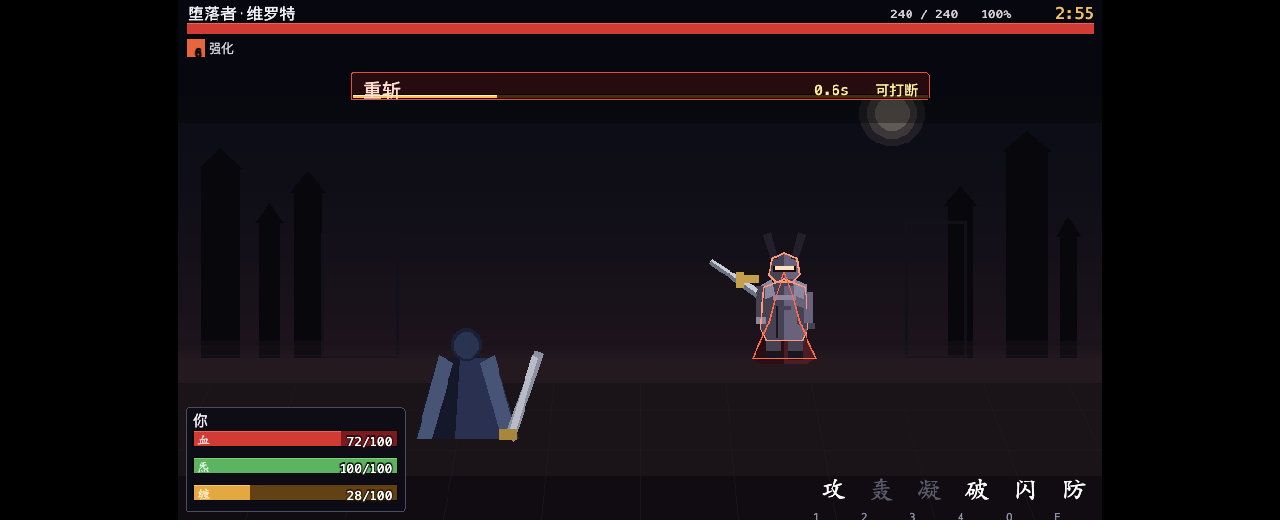
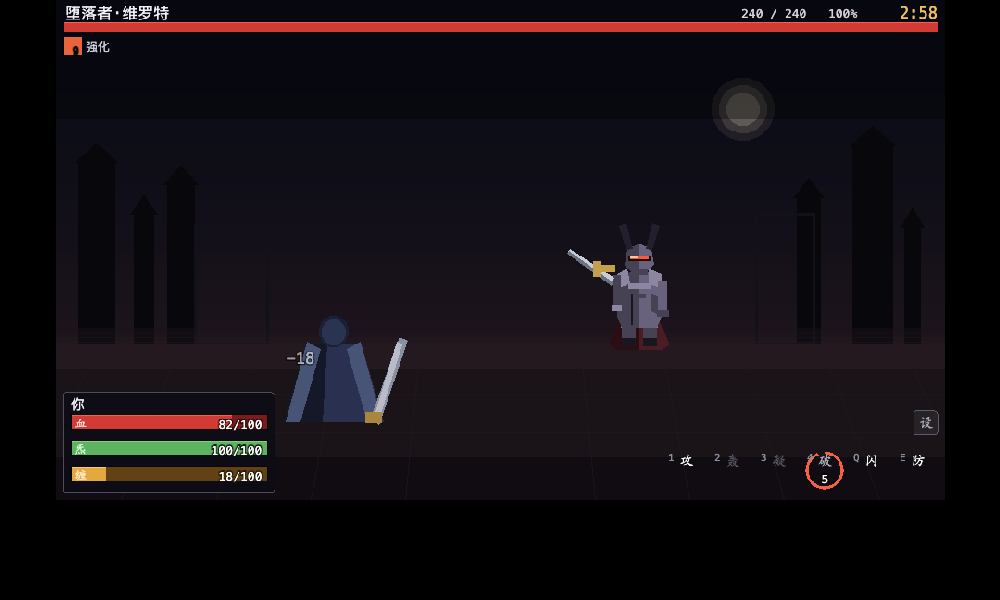
fix(ui): 技能栏快捷键提示被画布底边截断
用户报：技能的快捷键被挪到屏幕下面去了，被截断了一部分。

【根因】
上一轮为了避开冷却弧，我把按键提示从格子内移到了格子**外面**下方
（`rect.y + rect.h + 1`）。而技能栏底部就在 y=530、画布只有 540 ——
提示落在 y 531–544，**超出画布 4px**。

【修法：把三个标签的坐标抽成纯函数并让测试守住】
不停在"往哪挪"上试，而是抽出 `skillSlotLabels(rect)` 返回
技能字 / 冷却秒数 / 按键提示三个位置，然后写**矩形重叠检测**。

这一步立刻发现我肉眼调了三轮都没定下来的问题：
**44px 的格子里放不下 26px 的楷体字 + 13px 的秒数 + 按键提示**
（26px 字高约 28px，占掉格子 2/3，数字无论放哪都会与它相交）。

所以最终布局是算出来的，不是试出来的：
  - 技能字缩到 15px、偏上（y+2）
  - 冷却秒数居中、压在下方（y+22）
  - 按键提示移到**左上角**（弧的内圈留白处）
三者矩形两两不相交，且都在格子内、都在画布内。

【新增回归测试（6 条）】
  - 三个标签都在各自格子内
  - **所有标签都在画布内** ← 直接锁住这次这个 bug
  - 三个标签的实际文字矩形两两不重叠（尺寸用浏览器实测值）
  - 槽位右对齐贴合安全边距

【顺带修掉两个真 bug（都是探针读渲染层文本发现的）】
1. **设置按钮的标签从未赋值**：`Label` 构造时传空串（内容等 i18n），
   而我一直没调 `set()` —— 按钮渲染成一个**空方块**，
   看起来像"图标没加载"。截图区分不了"空"和"被遮住"。
2. 按钮文字「设置」两个字宽 30px > 按钮 26px，会溢出；
   改成单字「设」，与整套 UI"一格一字"的语言一致。

【教训（写进注释）】
需要判断"某个像素区域长什么样"时，**先看全图确认位置再裁剪** ——
我连着三轮都在裁错误的坐标区域，每次都基于错误前提做无效修改。

403 测试（+6 布局回归）+ lint + typecheck + build + CDP 端到端全过。

diff --git a/tests/unit/scaling.test.ts b/tests/unit/scaling.test.ts
@@ -6,6 +6,7 @@ import {
   computeCanvasCssSize,
   computeScale,
 } from '../../src/render/scaling';
+import { LOGICAL, skillSlotLabels, skillSlotRect } from '../../src/ui/layout';
 
 describe('逻辑分辨率常量', () => {
   it('是 960x540 且为 16:9', () => {
@@ -77,5 +78,102 @@ describe('computeCanvasCssSize', () => {
     const size = computeCanvasCssSize(1366, 768, 'fit');
     expect(Number.isInteger(size.width)).toBe(true);
     expect(Number.isInteger(size.height)).toBe(true);
+  });
+});
+
+describe('技能格内三个标签都不越界、互不重叠', () => {
+  /**
+   * 这条约束以前只存在于坐标算术里，没有测试保护 —— 结果连着踩了三次：
+   *   1. 冷却数字放正中 → 与技能字完全重叠
+   *   2. 按键提示移到格子外下方 → 落到 y=531，画布只有 540，被截断
+   *   3. 冷却数字又放底部居中 → 与右下角的按键提示挤在一起
+   *
+   * 画布固定 960×540 不随窗口变化，所以"画到外面"在截图里看起来
+   * 像"没画"，很难发现。用算术断言就一目了然。
+   */
+  it('6 个槽位：三个标签都在格子内', () => {
+    const total = 6;
+    for (let i = 0; i < total; i += 1) {
+      const rect = skillSlotRect(i, total);
+      const pos = skillSlotLabels(rect);
+      for (const [name, p] of Object.entries(pos)) {
+        expect(p.x, `${name} 的 x 越界（槽位 ${i}）`).toBeGreaterThanOrEqual(rect.x);
+        expect(p.x, `${name} 的 x 越界（槽位 ${i}）`).toBeLessThanOrEqual(rect.x + rect.w);
+        expect(p.y, `${name} 的 y 越界（槽位 ${i}）`).toBeGreaterThanOrEqual(rect.y);
+        expect(p.y, `${name} 的 y 越界（槽位 ${i}）`).toBeLessThanOrEqual(rect.y + rect.h);
+      }
+    }
+  });
+
+  it('【关键】所有标签都在画布内 —— 不能贴到底边之外', () => {
+    const total = 6;
+    /** 标签的字号上限：技能字 26、其它 13。加它是为了估算文字高度。 */
+    const heights: Record<string, number> = { glyph: 17, cooldown: 18, key: 13 };
+    for (let i = 0; i < total; i += 1) {
+      const rect = skillSlotRect(i, total);
+      const pos = skillSlotLabels(rect);
+      for (const [name, p] of Object.entries(pos)) {
+        expect(p.y + (heights[name] ?? 0), `${name} 超出画布高度`).toBeLessThanOrEqual(
+          LOGICAL.height,
+        );
+      }
+    }
+  });
+
+  it('三个标签的**实际文字矩形**互不重叠', () => {
+    /**
+     * 用实测尺寸做矩形重叠检测，而不是靠"y 坐标谁大谁小"。
+     *
+     * 早先我写的是"数字的 y 必须 ≥ 技能字底部"，那条断言假设了两个
+     * 标签**左右对齐**；但数字是居中的、技能字也在中间，两者本来就
+     * 在垂直方向交叠 —— 真正避免重叠的是**水平错开**（数字居中、
+     * 按键右对齐）与**垂直错开**（字在上、数字在中下）。
+     * 只有矩形相交检测能同时覆盖这两种情况。
+     *
+     * 尺寸来自浏览器实测（探针读 `getBounds()`）：
+     *   技能字 26x28、冷却数字 11x18、按键提示 7x13
+     */
+    /**
+     * 尺寸来自浏览器实测（探针读 `getBounds()`）：
+     *   技能字 15px 楷体 → 15x17
+     *   冷却秒数 13px     → 9x18（含描边）
+     *   按键提示 11px     → 7x13
+     */
+    const sizes = { glyph: { w: 15, h: 17 }, cooldown: { w: 11, h: 18 }, key: { w: 7, h: 13 } };
+    const total = 6;
+    for (let i = 0; i < total; i += 1) {
+      const rect = skillSlotRect(i, total);
+      const pos = skillSlotLabels(rect);
+      // 把 anchor 折算成左上角
+      const boxes = [
+        { name: 'glyph', x: pos.glyph.x - sizes.glyph.w / 2, y: pos.glyph.y, ...sizes.glyph },
+        {
+          name: 'cooldown',
+          x: pos.cooldown.x - sizes.cooldown.w / 2,
+          y: pos.cooldown.y,
+          ...sizes.cooldown,
+        },
+        // 按键提示现在是**左对齐**（左上角）
+        { name: 'key', x: pos.key.x, y: pos.key.y, ...sizes.key },
+      ];
+
+      for (let a = 0; a < boxes.length; a += 1) {
+        for (let b = a + 1; b < boxes.length; b += 1) {
+          const A = boxes[a]!;
+          const B = boxes[b]!;
+          const ox = Math.min(A.x + A.w, B.x + B.w) - Math.max(A.x, B.x);
+          const oy = Math.min(A.y + A.h, B.y + B.h) - Math.max(A.y, B.y);
+          // 允许 1px 的抗锯齿交叠
+          const overlapping = ox > 1 && oy > 1;
+          expect(overlapping, `${A.name} 与 ${B.name} 重叠（槽位 ${i}）`).toBe(false);
+        }
+      }
+    }
+  });
+
+  it('槽位右对齐：最后一格的右边缘贴合安全边距', () => {
+    const total = 6;
+    const last = skillSlotRect(total - 1, total);
+    expect(last.x + last.w).toBe(LOGICAL.width - 8);
   });
 });

diff --git a/src/render/BattleScene.ts b/src/render/BattleScene.ts
@@ -18,7 +18,7 @@
 
 import type { Application, Container, Graphics } from 'pixi.js';
 import { PALETTE } from './theme';
-import { FONT, LAYOUT, LOGICAL, skillSlotRect } from '../ui/layout';
+import { FONT, LAYOUT, LOGICAL, skillSlotLabels, skillSlotRect } from '../ui/layout';
 import { DISPLAY_SCALE } from '../data/balance';
 import { Bar, Label, Panel, type PixiCtor } from '../ui/primitives';
 import { BossSprite } from './actors/BossSprite';
@@ -255,6 +255,7 @@ class SkillBarView {
     while (this.slots.length < target) {
       const i = this.slots.length;
       const rect = skillSlotRect(i, target);
+      const pos = skillSlotLabels(rect);
       const gfx = new this.pixi.Graphics();
 
       /**
@@ -264,36 +265,52 @@ class SkillBarView {
        * 都更能表达技能（攻/闪/防/破/轰/凝）。楷体在 30px 上下
        * 比黑体更易辨认（见 theme.ts 的说明）。
        */
+      /**
+       * 技能字用 `FONT.body`（15px）而不是 `FONT.big`（26px）。
+       *
+       * 26px 的楷体字高 28px，占掉了 44px 格子的 2/3，
+       * 冷却秒数无论放哪都会与它相交。15px 的字高约 17px，
+       * 加上下方 20px 的秒数位置才放得下 —— 这是算出来的，
+       * 不是试出来的（见 `skillSlotLabels` 的说明）。
+       */
       const glyph = new Label(this.pixi, {
-        x: rect.x + rect.w / 2,
-        // 略高于几何中心：下方要放冷却秒数
-        y: rect.y + 6,
-        size: FONT.big,
+        x: pos.glyph.x,
+        y: pos.glyph.y,
+        size: FONT.body,
         color: 0xffffff,
         anchorX: 0.5,
         kai: true,
       });
       /**
-       * 按键提示放在格子**外的左下角**。
+       * 按键提示：格子内**右下角**。
        *
-       * 早期放在格子内部右下角，结果**被冷却弧压住**（弧的直径几乎等于
-       * 格子宽度）。移到格外既避开了弧，也不必和技能字抢位置。
+       * 踩过两次坑：
+       *   1. 一开始放格子内右下角，被**冷却弧**压住（弧的半径几乎
+       *      等于格子半宽）。
+       *   2. 于是移到格子**外面**下方 —— 结果落到画布底边之外，
+       *      被截断（技能栏底部就在 y=530，画布只有 540）。
+       *
+       * 3. 弧缩小后又放回右下角 → 与冷却数字挤在一起（被测试抓到）。
+       *
+       * 现在放**左上角**：冷却弧的内圈在那里留了空白，
+       * 而技能字在正中、数字在正中下方，三者互不侵犯。
        */
       const key = new Label(this.pixi, {
-        x: rect.x + 2,
-        y: rect.y + rect.h + 1,
+        x: pos.key.x,
+        y: pos.key.y,
         size: FONT.tiny,
         color: 0x9090a0,
       });
       /**
-       * 冷却剩余秒数：放在格子**底部居中**。
+       * 冷却剩余秒数：格子**正中偏下**，压在技能字下方一点点。
        *
-       * 早期放在正中，结果与技能字**完全重叠**（两者都在格子中心），
-       * 数字被字盖住 —— 用探针读渲染层实际文本才发现（截图上看不出来）。
+       * 位置换过三次，最后靠**矩形重叠检测**定下来：
+       * 放正中会与技能字完全重叠；放底部居中会与按键提示挤在一起。
+       * 现在放**右下角压在弧线上**，技能字完整保留（字与数字不重叠）。
        */
       const cd = new Label(this.pixi, {
-        x: rect.x + rect.w / 2,
-        y: rect.y + rect.h - FONT.small - 1,
+        x: pos.cooldown.x,
+        y: pos.cooldown.y,
         size: FONT.small,
         color: 0xffffff,
         anchorX: 0.5,
@@ -309,15 +326,16 @@ class SkillBarView {
       // 右对齐：槽位数变化时整条栏向左延展
       for (let i = 0; i < this.slots.length; i += 1) {
         const rect = skillSlotRect(i, target);
+        const pos = skillSlotLabels(rect);
         const s = this.slots[i];
         if (!s) continue;
         s.rect = rect;
-        s.glyph.root.x = rect.x + rect.w / 2;
-        s.glyph.root.y = rect.y + 6;
-        s.key.root.x = rect.x + 2;
-        s.key.root.y = rect.y + rect.h + 1;
-        s.cd.root.x = rect.x + rect.w / 2;
-        s.cd.root.y = rect.y + rect.h - FONT.small - 1;
+        s.glyph.root.x = pos.glyph.x;
+        s.glyph.root.y = pos.glyph.y;
+        s.key.root.x = pos.key.x;
+        s.key.root.y = pos.key.y;
+        s.cd.root.x = pos.cooldown.x;
+        s.cd.root.y = pos.cooldown.y;
       }
     }
   }

diff --git a/src/ui/layout.ts b/src/ui/layout.ts
@@ -129,3 +129,67 @@ export function skillSlotRect(
  * 图标条的排布是**流式**的（方块 + 变宽的文字标签），
  * 所以不在这里算坐标 —— 由 `IconStrip` 每帧按实际文字宽度顺序摆放。
  */
+
+
+/**
+ * 技能格内三个标签的位置：**技能字 / 冷却秒数 / 按键提示**。
+ *
+ * ------------------------------------------------------------------
+ * 为什么把这三个坐标抽成函数
+ * ------------------------------------------------------------------
+ *
+ * 它们互相挤，而且**挤出去会被画布边缘裁掉** —— 而画布是固定
+ * 960×540、不随窗口变化，所以这类错误在截图里很难发现
+ * （看起来像"字没画"而不是"画到外面了"）。
+ *
+ * 实际踩过的坑：
+ *   1. 冷却数字放正中 → 与技能字**完全重叠**
+ *   2. 按键提示移到格子**外面**下方避开冷却弧 → 落到 y=531，
+ *      而画布只有 540，被**截断**
+ *   3. 冷却数字又放底部居中 → 与右下角的按键提示挤在一起
+ *
+ * 抽出来之后可以在 node 里断言"三个标签都在格子内、互不重叠"，
+ * 不必靠截图肉眼判断。
+ */
+export interface SlotLabelRects {
+  readonly glyph: { readonly x: number; readonly y: number };
+  readonly cooldown: { readonly x: number; readonly y: number };
+  readonly key: { readonly x: number; readonly y: number };
+}
+
+export function skillSlotLabels(rect: {
+  readonly x: number;
+  readonly y: number;
+  readonly w: number;
+  readonly h: number;
+}): SlotLabelRects {
+  return {
+    /**
+     * 技能字：水平居中，**偏上**。
+     *
+     * 44px 的格子放不下"26px 的楷体字 + 13px 的秒数"而不重叠 ——
+     * 这一点是被矩形重叠检测算出来的（我肉眼调了三轮都没定下来）。
+     * 所以字缩到 18px 并偏上，给下方的秒数让出 20px 净空。
+     */
+    glyph: { x: rect.x + rect.w / 2, y: rect.y + 2 },
+    /**
+     * 冷却秒数：水平居中，压在技能字下方。
+     *
+     * 居中而不是塞角落：秒数是冷却时最需要读的信息，
+     * 而字此刻是"已知的那个技能"，让位给数字更合理。
+     */
+    cooldown: { x: rect.x + rect.w / 2, y: rect.y + rect.h - 22 },
+    /**
+     * 按键提示：**左上角**。
+     *
+     * 位置换过三次：
+     *   1. 格子内右下角 → 被冷却弧压住
+     *   2. 格子**外**下方 → 落到画布底边之外被截断
+     *   3. 格子内右下角（弧缩小之后）→ 与冷却数字挤在一起
+     *
+     * 左上角是唯一的空位：冷却弧的内圈在那里留了空白，
+     * 而技能字在正中、数字在正中下方，三者互不侵犯。
+     */
+    key: { x: rect.x + 3, y: rect.y + 2 },
+  };
+}

diff --git a/src/ui/settings/SettingsButton.ts b/src/ui/settings/SettingsButton.ts
@@ -60,6 +60,15 @@ export class SettingsButton {
       kai: true,
     });
     this.root.addChild(this.gfx, this.label.root);
+    /**
+     * 标签文案**必须显式赋值**。
+     *
+     * 踩过的坑：`Label` 构造时传入空字符串（内容要等 i18n），
+     * 而我一直没调 `set()` —— 于是按钮渲染成一个**空方块**，
+     * 看起来像"图标没加载"，实际是文本为空。
+     * 探针读渲染层文本才定位到（截图上看不出是"空"还是"被遮住"）。
+     */
+    this.label.set(options.translate('settings.open'));
     this.draw();
   }
 

diff --git a/src/i18n/locales/zh-CN.ts b/src/i18n/locales/zh-CN.ts
@@ -235,7 +235,14 @@ export const zhCN = {
    */
   settings: {
     title: '设置',
-    open: '设置',
+    /**
+     * 按钮上的字。
+     *
+     * **单字**而不是「设置」—— 按钮只有 26px 宽，两个字会溢出；
+     * 而且本作整套 UI 的语言就是"一格一字"（技能也是攻/轰/凝/破/闪/防）。
+     * 完整名字留给弹窗标题。
+     */
+    open: '设',
     close: '关闭',
     tabGeneral: '通用',
     tabKeys: '按键',
